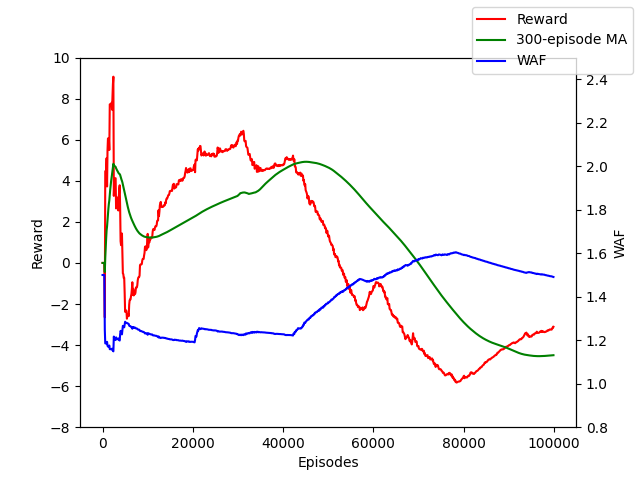
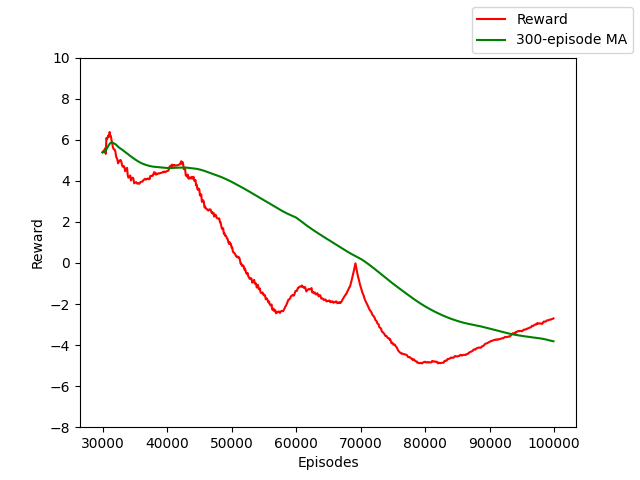
add reward alpha

diff --git a/ftl/nand/nand_controller.py b/ftl/nand/nand_controller.py
@@ -12,6 +12,26 @@ LBA_BYTES = int(os.getenv('LBA_BYTES'))
 BLOCK_NUM = int(os.getenv('BLOCK_NUM'))
 NUMS_OF_PAGE_IN_BLOCK = int(os.getenv('NUMS_OF_PAGE_IN_BLOCK'))
 ACTIVE_GC_WAF_FULL_RATIO = float(os.getenv('ACTIVE_GC_WAF_FULL_RATIO'))
+MA_PERIOD = int(os.getenv('MA_PERIOD'))
+CHANGE_RATIO_ALPHA = float(os.getenv('CHANGE_RATIO_ALPHA'))
+
+class RewardGenerator:
+    def __init__(self):
+        self.history = []
+
+    def Reset(self):
+        self.history.clear()
+    
+    def Add(self, reward):
+        self.history.append(reward)
+    
+    def GetReward(self,):
+        if len(self.history) < MA_PERIOD + 1:
+            raise MemoryError('The length of reward history is not long enough to calculate.')
+        prevRewardMA = sum(self.history[-MA_PERIOD - 1 : -1]) / MA_PERIOD
+        currentRewardMA = sum(self.history[-MA_PERIOD :]) / MA_PERIOD 
+        changeRatio = abs((prevRewardMA - currentRewardMA) / prevRewardMA)
+        return self.history[-1] * (1 / (1 + CHANGE_RATIO_ALPHA * changeRatio))
 
 class NandController:
     def __init__(self):
@@ -20,6 +40,7 @@ class NandController:
         self.currentHotBlockIndex = None 
         self.currentColdBlockIndex = None 
         self.distributionCounter = Counter()
+        self.rewardGenerator = RewardGenerator()
         self.InitializeBlocks()
 
     def Reset(self):
@@ -29,6 +50,7 @@ class NandController:
         self.currentHotBlockIndex = None 
         self.currentColdBlockIndex = None 
         self.distributionCounter = Counter()
+        self.rewardGenerator.Reset()
 
     def InitializeBlocks(self):
         PrintLog('Build Virtual Blocks...')
@@ -115,7 +137,14 @@ class NandController:
             waf =  sum(tempWAFs) / len(tempWAFs)
             reward = sum(rewards) / len(rewards)
         return reward, waf
-    
+
+    def UpdateRewardMA(self):
+        reward, waf = self.GetRewardAndWAF()
+        self.rewardGenerator.Add(reward)
+
+    def GetChangeRatioReward(self):
+        return self.rewardGenerator.GetReward()
+
     def UpdateBlockWAFDistribution(self):
         # 計算現在所有已滿的block的WAF分布
         fullBlockIndexes = [item for i, item in enumerate(range(BLOCK_NUM)) if i not in self.freeBlockIndexes]

diff --git a/main.py b/main.py
@@ -13,6 +13,7 @@ STRATEGY_TYPES = os.getenv('STRATEGY_TYPES')
 GC_DISTRIBUTION_RESULT = os.getenv('GC_DISTRIBUTION_RESULT') 
 WAF_DISTRIBUTION_RESULT = os.getenv('WAF_DISTRIBUTION_RESULT')
 SIMULATE_PROGRESS_RESULT = os.getenv('SIMULATE_PROGRESS_RESULT')
+MA_PERIOD = int(os.getenv('MA_PERIOD'))
 
 def strategy(strategyType):
     hostInterface = HostInterface()
@@ -20,14 +21,19 @@ def strategy(strategyType):
     history = History()
     for i in tqdm(range(TRACE_LENGTH)):
         request, writeBytes = hostInterface.Step()
-        freeSpaceRatio = hostInterface.GetFreeSpaceRatio()
         if i % ESTIMATE_WAF_PERIOD == 0:
-            reward, waf = hostInterface.GetRewardAndWAF()
-            hostInterface.UpdateBlockWAFDistribution()
-            history.AddRewardAndWaf(i, reward, waf, freeSpaceRatio)
-    history.ShowBlockWAFDistribution(f'{WAF_DISTRIBUTION_RESULT}/{strategyType}.png', hostInterface.GetDistributionCounter())
-    history.ShowRewardAndWafHistory(f'{SIMULATE_PROGRESS_RESULT}/{strategyType}.png')
-    history.ShowGCDistribution(f'{GC_DISTRIBUTION_RESULT}/{strategyType}.png', hostInterface.GetGCSuccessEpisodes())
+            #freeSpaceRatio = hostInterface.GetFreeSpaceRatio()
+            #reward, waf = hostInterface.GetRewardAndWAF()
+            #hostInterface.UpdateBlockWAFDistribution()
+            hostInterface.flashTranslation.nandController.UpdateRewardMA()
+            if i >= MA_PERIOD * ESTIMATE_WAF_PERIOD:
+                reward = hostInterface.flashTranslation.nandController.GetChangeRatioReward()
+                history.AddChangeRatioReward(i, reward)
+            # history.AddRewardAndWaf(i, reward, waf, freeSpaceRatio)
+    # history.ShowBlockWAFDistribution(f'{WAF_DISTRIBUTION_RESULT}/{strategyType}.png', hostInterface.GetDistributionCounter())
+    # history.ShowRewardAndWafHistory(f'{SIMULATE_PROGRESS_RESULT}/{strategyType}.png')
+    # history.ShowGCDistribution(f'{GC_DISTRIBUTION_RESULT}/{strategyType}.png', hostInterface.GetGCSuccessEpisodes())
+    history.ShowChangeRatioReward(f'{SIMULATE_PROGRESS_RESULT}/{strategyType}.png')
 
 def main():
     strategyTypes = STRATEGY_TYPES.split(',')

diff --git a/libs/history.py b/libs/history.py
@@ -15,6 +15,10 @@ class History:
         self.rewards = []
         self.wafs = []
 
+    def AddChangeRatioReward(self, episode, reward):
+        self.rewardWafEpisodes.append(episode)
+        self.rewards.append(reward)
+
     def AddRewardAndWaf(self, episode, reward, waf, freeRatio):
         self.rewardWafEpisodes.append(episode)
         self.rewards.append(reward)
@@ -47,6 +51,20 @@ class History:
         ax1.plot(self.rewardWafEpisodes, ma_rewards, label=f'{window_size}-episode MA', color='green')
 
         # Add legend and save the plot
+        fig.legend(loc='upper right')
+        plt.savefig(path)
+        plt.clf()
+
+    def ShowChangeRatioReward(self, path):
+        window_size = 300
+        ma_rewards = pd.Series(self.rewards).rolling(window_size, min_periods=1).mean()
+        plt.title(f'ChangeRatio Reward Progress')
+        fig, ax1 = plt.subplots()
+        ax1.set_xlabel('Episodes')
+        ax1.set_ylabel('Reward')
+        ax1.set_ylim(-8, 10)
+        ax1.plot(self.rewardWafEpisodes, self.rewards, label='Reward', color='red')
+        ax1.plot(self.rewardWafEpisodes, ma_rewards, label=f'{window_size}-episode MA', color='green')
         fig.legend(loc='upper right')
         plt.savefig(path)
         plt.clf()
